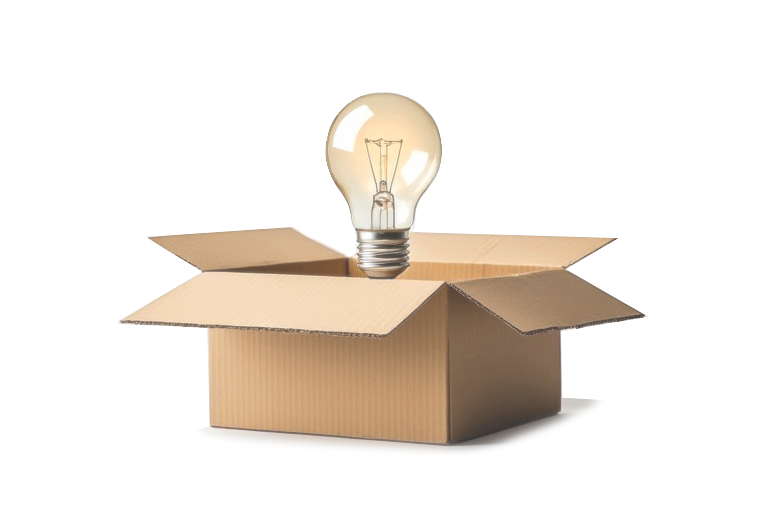
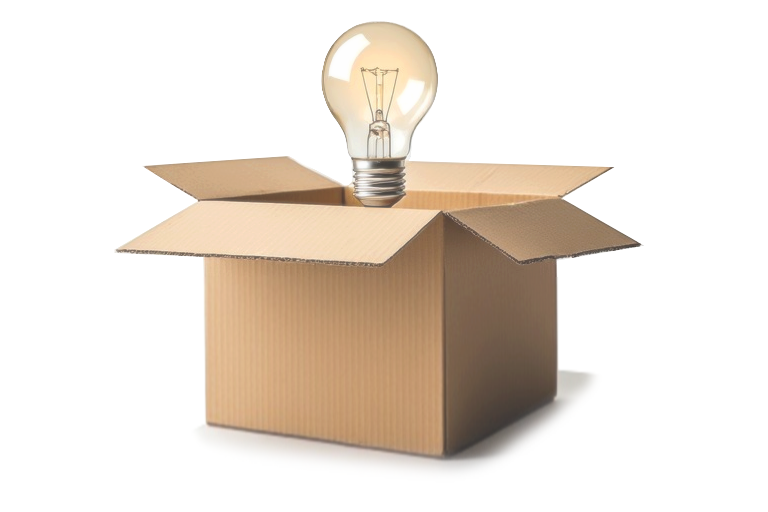
update

Changed region(s): [[0.1562, 0.0312, 0.8438, 0.9375]]

diff --git a/index.html b/index.html
@@ -24,9 +24,9 @@
         </nav>
     </header>
 
-    <br><br><br>
+    <br><br><br><br><br>
 
-    <img src="homepage.png" style="width:600px; margin:auto; display:block;">
+    <img src="homepage.png" style="width:500px; margin:auto; display:block;">
 
     <p style="text-align: center; color: grey;">Insightbox is a multi-disciplinary company.</p>
 
